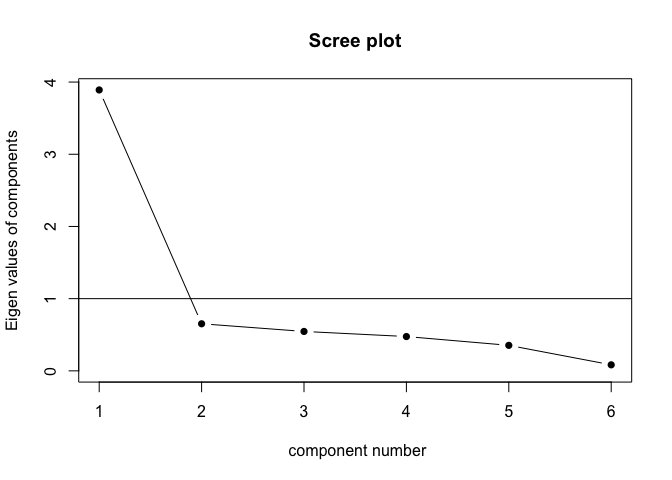
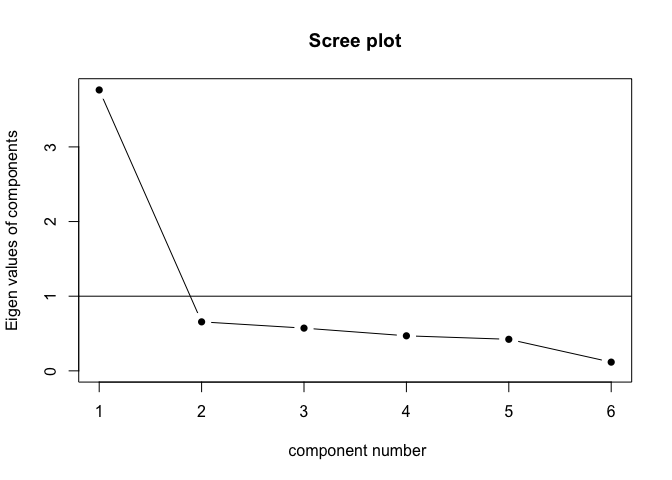
commit simulating data steps

diff --git a/_posts/2021-06-04-simulating-correlated-likert-scale-data.md b/_posts/2021-06-04-simulating-correlated-likert-scale-data.md
@@ -1,4 +1,4 @@
-SIMULATING CORRELATED LIKERT SCALE DATA
+Simulating Correlated Likert-Scale Data In R: 3 Simple Steps
 ================
 
 Let us simulate some data!
@@ -15,40 +15,21 @@ In the following lines of code, I will show you how to simulate the
 ideal scenario of intercorrelated Likert-Scale answers that measure
 *one* underlying factor (construct).
 
+### Loading the libraries
+
 Let’s start by loading the libraries.
 
 ``` r
-library(psych) # for polychoric correlations
+library(polycor) # for polychoric correlations
+library(psych) # for scree plots
 library(tidyverse)
-```
-
-    ## ── Attaching packages ─────────────────────────────────────── tidyverse 1.3.1 ──
-
-    ## ✓ ggplot2 3.3.3     ✓ purrr   0.3.4
-    ## ✓ tibble  3.1.1     ✓ dplyr   1.0.6
-    ## ✓ tidyr   1.1.3     ✓ stringr 1.4.0
-    ## ✓ readr   1.4.0     ✓ forcats 0.5.1
-
-    ## ── Conflicts ────────────────────────────────────────── tidyverse_conflicts() ──
-    ## x ggplot2::%+%()   masks psych::%+%()
-    ## x ggplot2::alpha() masks psych::alpha()
-    ## x dplyr::filter()  masks stats::filter()
-    ## x dplyr::lag()     masks stats::lag()
-
-``` r
 library(faux) # for the function rnorm_pre
-```
-
-    ## 
-    ## ************
-    ## Welcome to faux. For support and examples visit:
-    ## https://debruine.github.io/faux/
-    ## - Get and set global package options with: faux_options()
-    ## ************
-
-``` r
 library(truncnorm) # for the function rtruncnorm
 ```
+
+### Creating simulation data
+
+#### Step 1: Create a single item
 
 The package `truncnorm` provides a function to sample data from a normal
 distribution, but with boundaries (“truncated”)! This is just what you
@@ -69,13 +50,15 @@ NPI_1 <- round(rtruncnorm(n = 500,
 head(NPI_1)
 ```
 
-    ## [1] -1 -1  0  1  1  0
+    ## [1]  0 -1  1  2 -1  0
 
 ``` r
 mean(NPI_1)
 ```
 
-    ## [1] -0.02
+    ## [1] -0.028
+
+#### Step 2: Get its correlated cousins
 
 Now we can use the `rnorm_pre` function from the `faux` package to
 simulate data that is correlated to our first item. For this, we set the
@@ -93,25 +76,28 @@ NPI_5 <- round(rnorm_pre(NPI_1, mu = 0, sd = 1, r = 0.8))
 NPI_6 <- round(rnorm_pre(NPI_1, mu = 0, sd = 1, r = 0.75))
 
 
-NPI <- data.frame(NPI_1, NPI_2, NPI_3, NPI_4, NPI_5, NPI_6)
-
-NPI <- as.data.frame(lapply(NPI, as.integer))
+NPI <- tibble(NPI_1, NPI_2, NPI_3, NPI_4, NPI_5, NPI_6)
 head(NPI)
 ```
 
+    ## # A tibble: 6 x 6
     ##   NPI_1 NPI_2 NPI_3 NPI_4 NPI_5 NPI_6
-    ## 1    -1    -1    -1    -2     0    -1
-    ## 2    -1    -2     0     0    -1    -1
-    ## 3     0     0     0     0     0     0
-    ## 4     1     1     2     1     1     1
-    ## 5     1     1     3     0     1     1
-    ## 6     0     0    -1    -1    -1     0
+    ##   <dbl> <dbl> <dbl> <dbl> <dbl> <dbl>
+    ## 1     0    -1     1     0     0     1
+    ## 2    -1     0    -2    -1    -1     0
+    ## 3     1     0     0     1     1     1
+    ## 4     2     1     1     1     2     3
+    ## 5    -1    -2    -1     1     0    -1
+    ## 6     0     1     0     0     1     1
+
+#### Step 3: Check the assumptions
 
 Great! Now that we have our simulated data from six items, we want to
 check whether they all load on one underlying latent factor. For this,
 we can use polychoric correlations, but Pearson correlations might be
 applicable too, see the book [Modern Psychometrics in
 R](https://scholar.harvard.edu/mair/publications/modern-psychometrics-r).
+The `hetcor` function from the `polycor` package calculates
 
 > “A detailed study of this phenomenon within the context of structural
 > equation models can be found in Rhemtulla et al. (2012). The authors
@@ -123,20 +109,17 @@ See also
 to learn how polychoric correlations work.
 
 ``` r
-Rmot2 <- polychoric(NPI, polycor = TRUE)
-```
+cormat <- hetcor(NPI) # calculate correlation matrix
+eigen_values <- eigen(cormat)
 
-    ## The polycor option has been removed from the polychoric function in the psych package.  Please fix the call.
-
-``` r
-Rdep <- Rmot2$rho
-scree(Rdep, factors = FALSE) # nice
+scree(cormat$correlations, factors = FALSE) # nice
 ```
 
 ![](2021-06-04-simulating-correlated-likert-scale-data_files/figure-gfm/unnamed-chunk-4-1.png)<!-- -->
 
 Cool! We actually seem to have one underlying component, as the “elbow”
-of the scree plot is behind the first component.
+of the scree plot is behind the first component - [see here for an
+explanation of scree plots](https://en.wikipedia.org/wiki/Scree_plot).
 
 Now let’s check the internal consistency using a custom-made cronbach’s
 alpha function:
@@ -154,6 +137,6 @@ cronbach.alpha <- function(data){
 cronbach.alpha(NPI) 
 ```
 
-    ## [1] 0.866339
+    ## [1] 0.8777856
 
 We seem to have a good internal consistency of the used scale! Horray!
